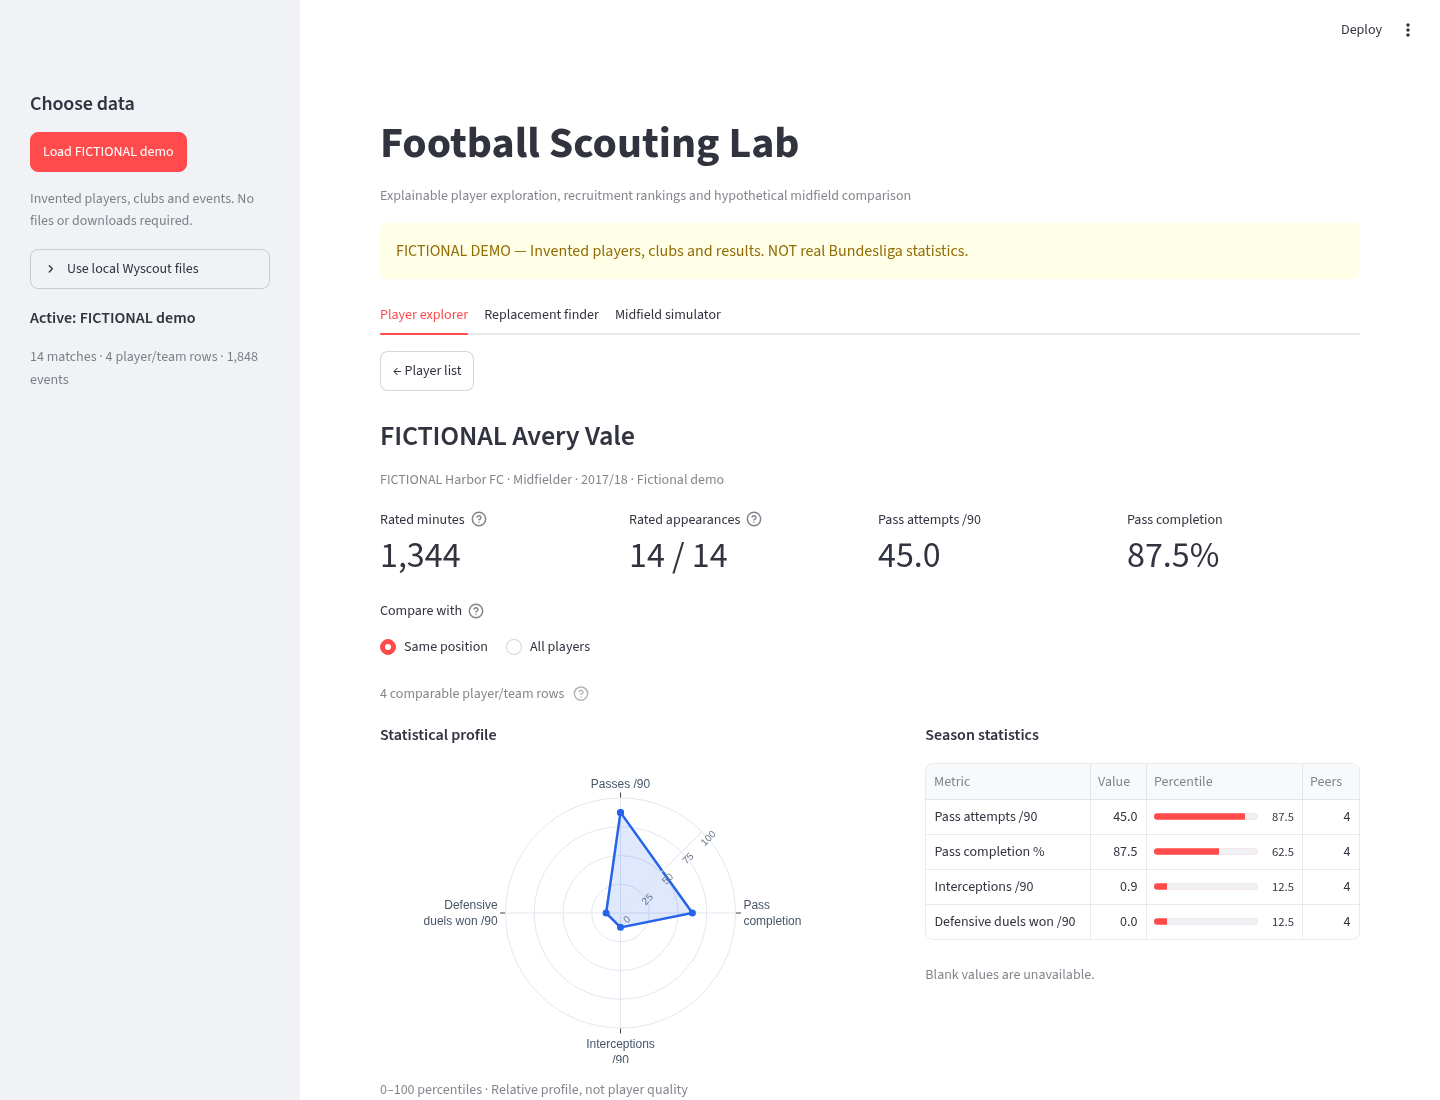
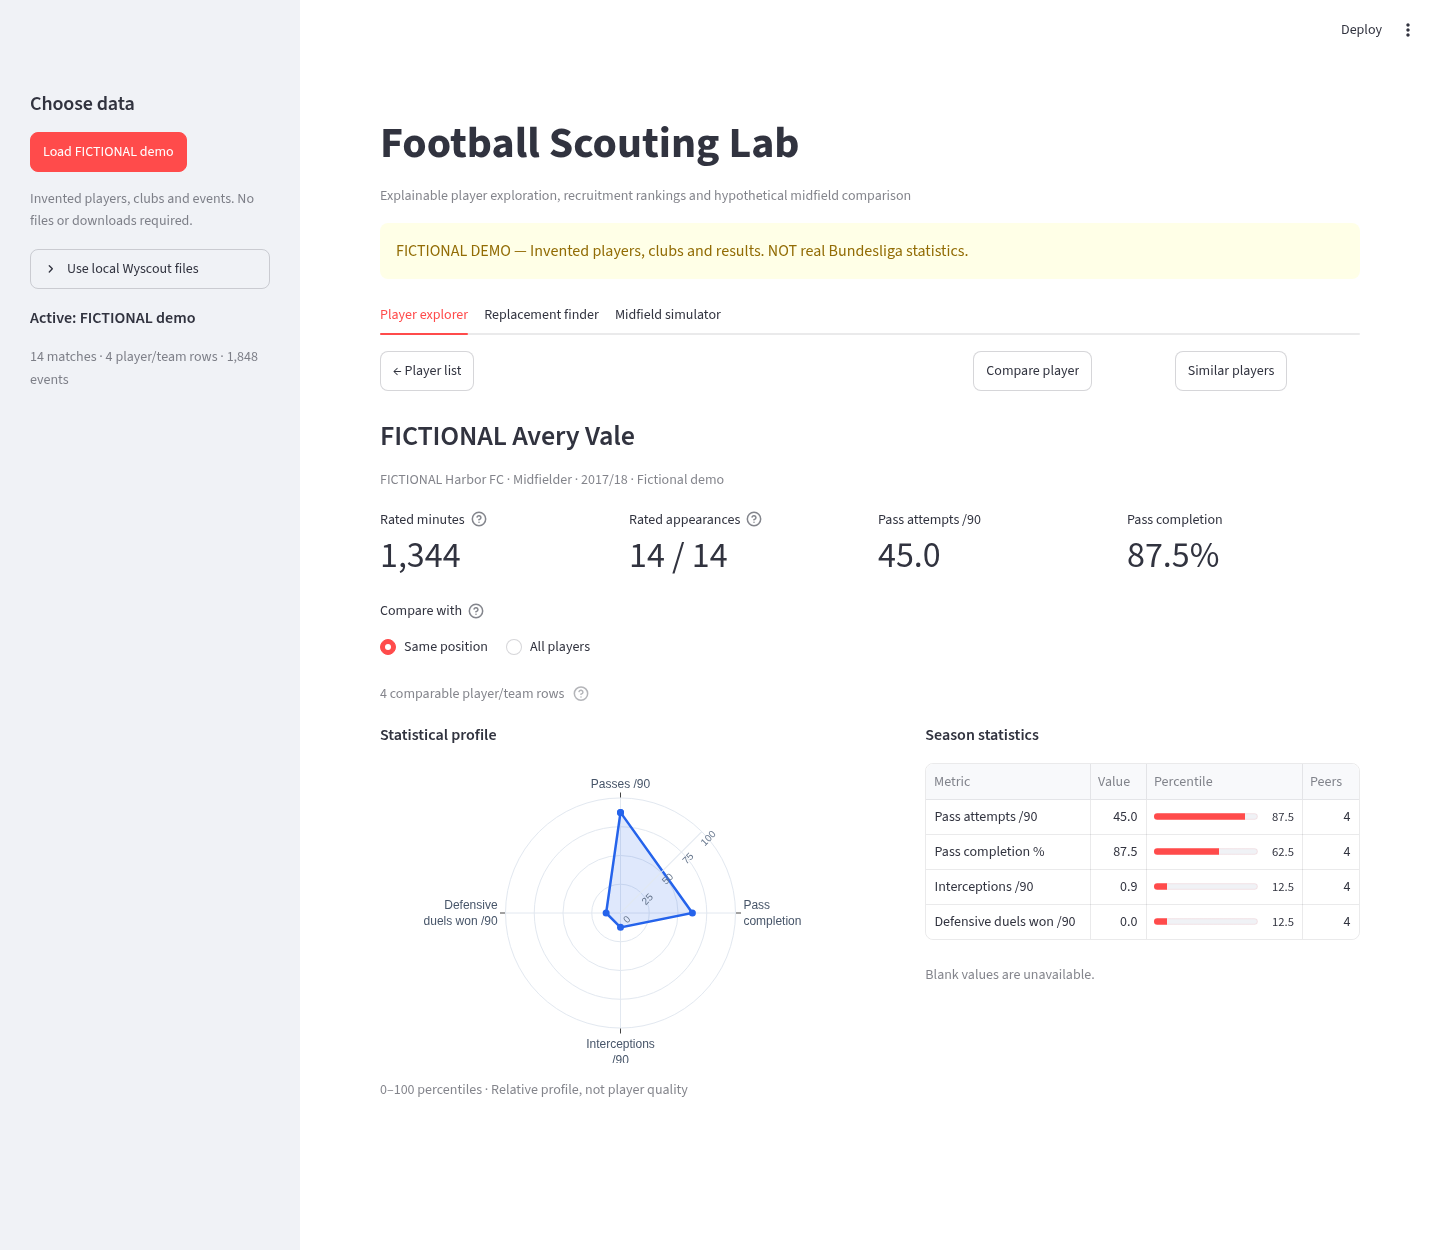
docs: explain direct comparisons and add genuine workflow screenshots

diff --git a/docs/ui.md b/docs/ui.md
@@ -249,6 +249,75 @@ Ruff lint/format and the full suite passed on Python **3.12.14 and 3.13.5**:
 1440 px desktop width verified native sorted-row selection, comparison switching,
 filtered back navigation and both other tabs without JavaScript page errors.
 
+## Direct player comparison and similar players
+
+From a player profile, choose **Compare player** to search Player B, or
+**Similar players** for up to five suggestions. Selecting a suggested row opens
+the comparison immediately. The B picker combines name, historical team and
+broad source-position filters; league remains fixed to Bundesliga 2017/18.
+Search filters narrow B's results, not the percentile population or suggestions.
+Same-position mode limits choices to A's known broad role; select **All players**
+for cross-position comparisons. An Unknown reference defaults to All players.
+
+The comparison shows historical A/B identities, minutes and rated/recorded
+appearances side by side. Both traces overlay **one** 0–100 radar with distinct
+colors and labels. The table below retains raw values, both percentiles,
+per-feature peer counts and **B − A** raw differences; completion differences
+are percentage points. A missing value or difference stays blank. Radar axes
+use only common available percentiles and require at least three; nothing is
+zero-filled. Manual comparison can show incomplete/low-minute players without
+inventing a similarity score.
+
+**Change player B** preserves A. **Player profile** returns to A, retaining the
+chosen pair, and **Player list** restores the original filters. A source/file
+change clears stale selections. Review-file edits do not alter these comparisons.
+The cached season is reused throughout; event processing does not rerun for
+search, suggestions, pair changes or comparison controls.
+
+### Fixed population and descriptive similarity
+
+The population is the full source's player/team metric rows with **at least 600
+rated minutes**, rated counts and a rated recorded appearance, filtered by A's
+known broad position or explicitly **All players**. Recruitment reviews and the
+four-player real-data demonstration cohort are never used to choose it. A and B
+are included when they qualify. Each feature uses the same per-feature available
+peer sample for **both** players, with the existing midrank percentile convention
+and minimum two peers. Changing B or search filters cannot refit A's scale.
+Changing the population mode explicitly changes the entire shared context.
+
+Suggestions use a fixed basis: **every comparable reference feature**, at least
+three of the four existing measurements. A and each candidate need 600 rated
+minutes; every ranked candidate must supply the **complete same basis**.
+Incomplete candidates are excluded with reasons in **Method and exclusions**,
+rather than gaining an advantage from a shorter distance vector. A reference
+feature without enough peers is omitted uniformly for all candidates. The paired
+radar can still show three common features when a manually chosen B lacks a fourth,
+while its similarity remains unavailable for an incomplete reference basis.
+
+`descriptive similarity = 100 − mean(abs(percentile_A − percentile_B))`.
+
+All included features have equal weight. Identical percentile profiles score 100;
+constant tied features have percentile 50 and contribute zero distance. Tiny groups
+are unstable. Ties sort by original player ID and historical team ID. A's underlying
+player ID is excluded across all teams; other transfer rows stay distinct.
+This is a **descriptive statistical profile distance**, not a probability, quality
+rating, role fit or replacement recommendation. It differs from the original
+Replacement Finder's weighted/min-max style score and is never blended into it.
+
+### Integrated comparison verification — 2026-10-26
+
+Synthetic tests exercise native selection, pair navigation, shared scales, ranking,
+transfers, tied/constant/tiny groups, missing measurements, source isolation and
+cached calculation reuse. Desktop Chromium was used for the actual comparison,
+suggestion and B-change workflow; existing Replacement Finder and simulator views
+also rendered. Genuine fictional captures show [suggestions](screenshots/explorer-similar.png)
+and the [paired radar/table](screenshots/explorer-comparison.png). No new real-data
+smoke is claimed: legitimate local Wyscout files remain unavailable. No datasets,
+dependencies, recruitment algorithms, models or services were added.
+Ruff lint/format and **525 tests per version** passed on Python **3.12.14 and
+3.13.5**, with no failures or skips. Chromium **154.0.8037.57** recorded no
+JavaScript page errors during the actual desktop workflow.
+
 ## Midfield simulator workflow (4b2)
 
 Open the third tab, **Midfield simulator**, after loading the same local files.

diff --git a/README.md b/README.md
@@ -18,13 +18,15 @@ python -m streamlit run streamlit_app.py
 
 Select **Load FICTIONAL demo** in the sidebar. All three sections work immediately:
 search `Casey` in **Player explorer** and select the row to open a profile,
-change a role/weights in **Replacement
+then try **Compare player** or **Similar players**. Change a role/weights in **Replacement
 finder**, then swap a player in **Midfield simulator** and inspect feature changes.
 Every demo player, club, event and result is **invented — NOT real Bundesliga
 statistics**. Scores are calculated by the existing analytics, not canned UI values.
 
 Genuine fictional-demo screenshots: [Player discovery](docs/screenshots/explorer-list.png)
 and [Player profile](docs/screenshots/explorer-profile.png).
+Also see [Similar players](docs/screenshots/explorer-similar.png) and the
+[shared-radar comparison](docs/screenshots/explorer-comparison.png).
 
 This MVP demonstrates explainable metrics, configurable recruitment priorities,
 fixed-cohort comparisons, data validation and a usable local Python interface.
@@ -37,12 +39,15 @@ On Windows, use `py -3.12 -m venv .venv` and `.venv\Scripts\Activate.ps1`.
 
 ## Current status
 
-**Player Explorer redesign.** A compact list supports player-name, league,
+**Integrated Player Explorer comparison.** A compact list supports player-name, league,
 historical-team and original broad-position filters. Native row selection opens
 a profile with rated statistics, per-feature percentiles and a radar chart.
 Compare with the same position or all players; the comparison population uses
 at least 600 rated minutes. Recruitment reviews remain separate from discovery.
-Role fit, style similarity, replacement ranking and the simulator are unchanged.
+**Compare player** searches a second player; **Similar players** suggests up to
+five source-wide matches with one-click comparison. Both profiles share one
+percentile population and radar. This descriptive similarity is separate from
+the original Replacement Finder's style/role scores, which remain unchanged.
 
 Real Wyscout loading remains available under **Use local Wyscout files**. No
 real local dataset was accessible for a new redesign smoke. Earlier real
@@ -139,6 +144,10 @@ for the two-column profile; **Player list** returns to your filters. Raw values
 sit beside a percentile radar; missing values remain unavailable. Broad positions
 come from `players.json` `role.name`, never from recruitment reviews. Unknown
 positions stay unknown. See [comparison method and limits](docs/ui.md#player-discovery-and-profiles).
+Use **Compare player** or **Similar players** from a profile. Search Player B by
+name, historical club and broad position, or select a suggestion. **Change player B**
+keeps A fixed; **Player profile** and **Player list** preserve your navigation.
+See [direct comparison and descriptive similarity](docs/ui.md#direct-player-comparison-and-similar-players).
 
 In **Replacement finder**,
 choose a reviewed reference and role, adjust priorities/weights/thresholds, then
